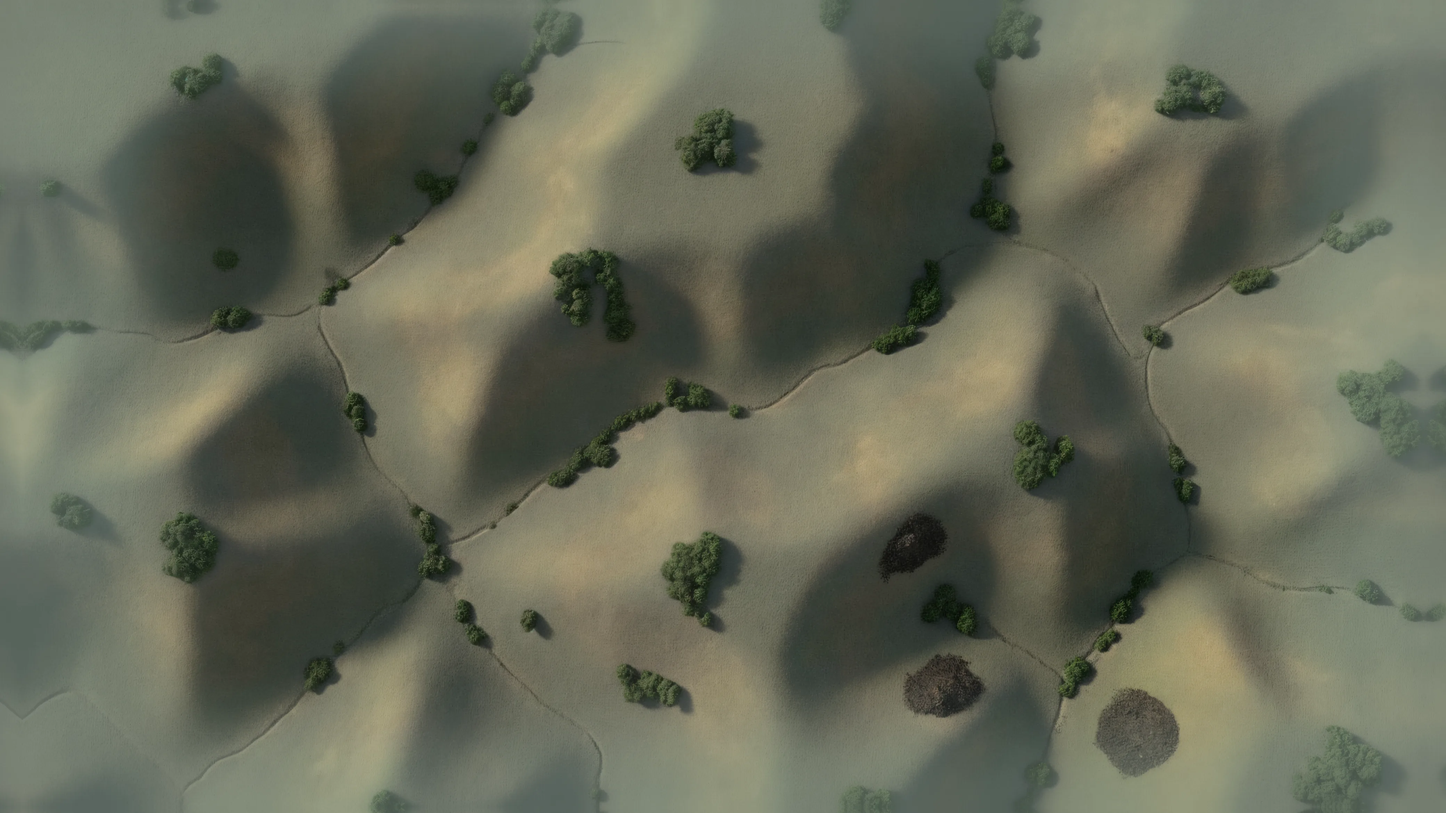
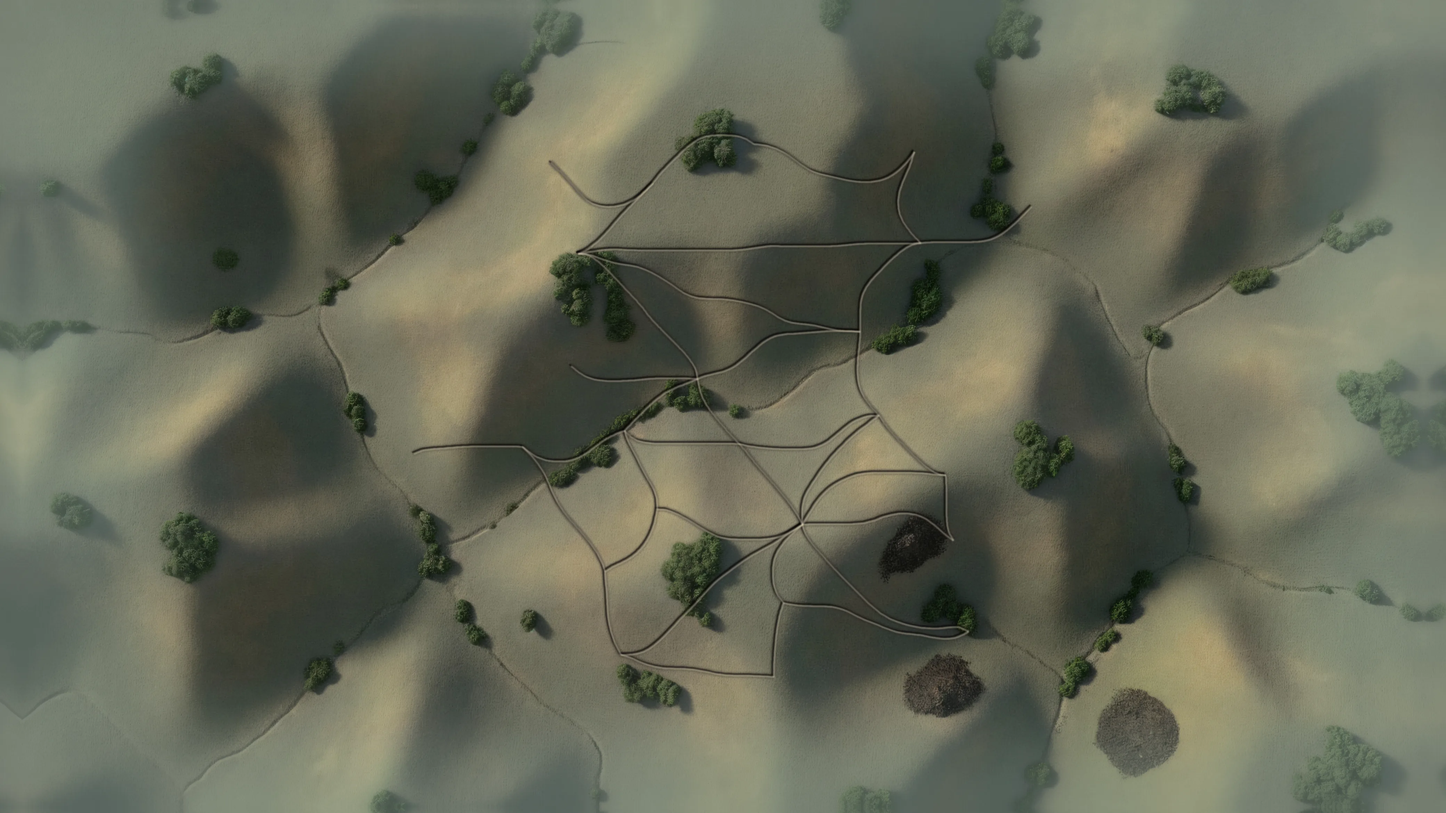
feat(board): the routes carved into the model
A drawn hairline over the ground was still a line on top of it. The
composers now cut a groove along every route into the relief painting —
its upper-left wall in shadow, its lower-right wall catching the light,
a line scored into plaster under the lamp — canal-era routes on the canal
ground, the railways on the rail one. Key C now leaves the grooves alone;
the drawn hairline goes.

diff --git a/app/src/gl/paint.ts b/app/src/gl/paint.ts
@@ -562,17 +562,8 @@ export function buildBoardScene(bgCanal: Sprite, bgRail: Sprite, etchCanal: Spri
 
   /* ------------------------------ links ------------------------------ */
   const linkGfx = new Map<string, Graphics>();
-  /* the same route as a surveyor's hairline — a thin dashed grey for a
-     railway, a thread of water for a canal — shown only while the traces
-     are hidden (key C), so the country still tells where a route may go */
-  const linkFaint = new Map<string, Graphics>();
   const linkHit = new Map<string, Graphics>();
   for (const def of LINKS) {
-    const f = new Graphics();
-    f.eventMode = 'none';
-    f.visible = false;
-    linksLayer.addChild(f);
-    linkFaint.set(def.id, f);
     const g = new Graphics();
     g.eventMode = 'none';
     linksLayer.addChild(g);
@@ -963,9 +954,6 @@ export function buildBoardScene(bgCanal: Sprite, bgRail: Sprite, etchCanal: Spri
       const g = linkGfx.get(def.id)!;
       g.clear();
       g.alpha = 1;
-      const f = linkFaint.get(def.id)!;
-      f.clear();
-      f.visible = false;
       const pts = linkPoints(def, game.era);
       const built = game.links[def.id];
       if (!built) {
@@ -982,17 +970,6 @@ export function buildBoardScene(bgCanal: Sprite, bgRail: Sprite, etchCanal: Spri
         }
         if (furrow <= 0) continue;
         const railStyle = game.era === 'rail' ? def.rail : !def.canal;
-        /* the hairline behind the trace, for when the trace is hidden */
-        if (railStyle) {
-          traceDashes(f, pts, 5, 6);
-          f.stroke({ width: 1.3, color: 0x2e2620, alpha: 0.5 * Math.min(1, furrow / 0.5) });
-        } else {
-          tracePath(f, pts);
-          f.stroke({ width: 2.2, color: 0x1e3a44, alpha: 0.32 * Math.min(1, furrow / 0.5), cap: 'round', join: 'round' });
-          tracePath(f, pts);
-          f.stroke({ width: 0.8, color: 0x8fb8c4, alpha: 0.45 * Math.min(1, furrow / 0.5), cap: 'round', join: 'round' });
-        }
-        f.visible = hideUnbuilt;
         if (railStyle && game.era === 'rail') {
           /* the railway itself is painted into the rail-era map (ballast,
              sleepers, steel): the trace only lifts it — a faint dark bed
@@ -1019,7 +996,8 @@ export function buildBoardScene(bgCanal: Sprite, bgRail: Sprite, etchCanal: Spri
           g.stroke({ width: 1.2, color: 0x8fb8c4, alpha: 0.5, cap: 'round', join: 'round' });
         }
         /* board option (key C): every unbuilt trace hidden, water included —
-           the relief ground serves its routes on a layer hidden with them */
+           the relief ground serves its routes on a layer hidden with them,
+           and keeps only the groove carved into the model for each */
         if (hideUnbuilt) g.alpha = 0;
       } else {
         const col = playerHex(game, built.owner);
@@ -1426,10 +1404,7 @@ export function buildBoardScene(bgCanal: Sprite, bgRail: Sprite, etchCanal: Spri
       const built = game.links[def.id];
       if (built) linkGfx.get(def.id)!.alpha = spotlight === null || built.owner === spotlight ? 1 : 0.3;
       /* unbuilt traces soften under a spotlight too (unless fully hidden) */
-      else {
-        linkGfx.get(def.id)!.alpha = hideUnbuilt ? 0 : spotlight === null ? 1 : 0.45;
-        linkFaint.get(def.id)!.visible = hideUnbuilt;
-      }
+      else linkGfx.get(def.id)!.alpha = hideUnbuilt ? 0 : spotlight === null ? 1 : 0.45;
     }
     for (const town of TOWNS) {
       const view = towns.get(town.id)!;

diff --git a/tools/map/README.md b/tools/map/README.md
@@ -140,8 +140,13 @@ its line on the land. `ETCH=1` on `compose-canal.sh` and `compose-rail.sh`
 now serves those routes as a transparent layer of their own
 (`map-relief-*-etch.webp`) over a land bare of them; the board lays it
 over each era's ground (`etchCanal`/`etchRail` in `PixiBoard.tsx`, listed
-in `MAP_URL`) and hides it with the traces, so C leaves nothing of a
-route but the country.
+in `MAP_URL`) and hides it with the traces. What C leaves is carved into
+the model itself: `FURROW=1` (the default) on both composers cuts a
+groove along every route — its upper-left wall in shadow, its lower-right
+wall catching the light, the way a line scored into plaster reads under
+a raking lamp — canal-era routes on the canal ground, the railways on the
+rail one. The country then still tells where a route may go, and C still
+reads as a switch: rubans and survey on, grooves alone off.
 
 ## Anchoring a place
 
